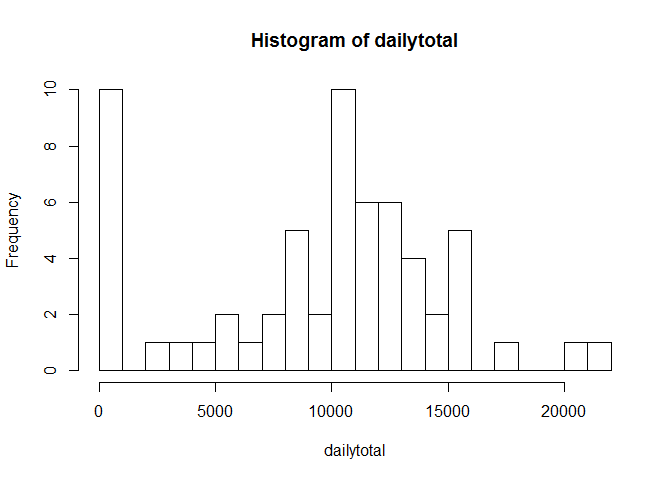
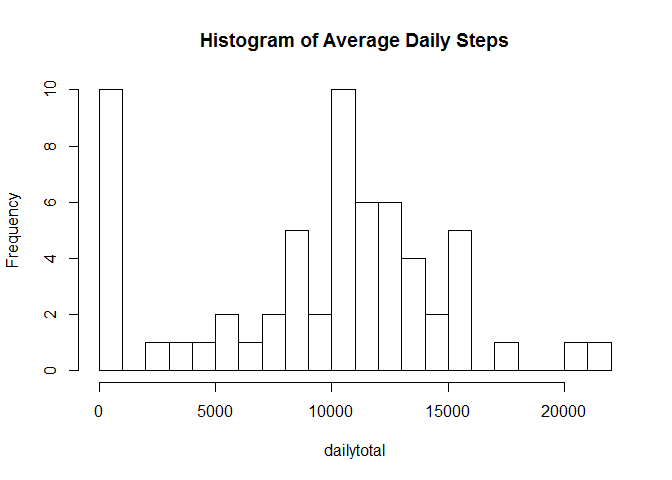
Final Commit

Changed region(s): [[0.2812, 0.0625, 0.75, 0.125]]

diff --git a/PA1_template.html b/PA1_template.html
@@ -116,7 +116,17 @@ $(document).ready(function () {
 <p>This project is being submitted by Sarah Lenceski, work starting June 4, 2017.</p>
 <p>The project requires the folowing:</p>
 <p>Commit a single R markdown file to a forked github account containing:</p>
-<p>1 Code for reading in the dataset and/or processing the data<br />2.Histogram of the total number of steps taken each day<br />3.Mean and median number of steps taken each day<br />4.Time series plot of the average number of steps taken<br />5.The 5-minute interval that, on average, contains the maximum number of steps<br />6.Code to describe and show a strategy for imputing missing data<br />7.Histogram of the total number of steps taken each dayafter missing values are imputed<br />8.Panel plot comparing the average number of steps taken per 5-minute interval across weekdays and weekends<br />9. All of the R code needed to reproduce the results (numbers, plots, etc.) in the report</p>
+<ol style="list-style-type: decimal">
+<li>Code for reading in the dataset and/or processing the data<br /></li>
+<li>Histogram of the total number of steps taken each day<br /></li>
+<li>Mean and median number of steps taken each day<br /></li>
+<li>Time series plot of the average number of steps taken<br /></li>
+<li>The 5-minute interval that, on average, contains the maximum number of steps<br /></li>
+<li>Code to describe and show a strategy for imputing missing data<br /></li>
+<li>Histogram of the total number of steps taken each dayafter missing values are imputed<br /></li>
+<li>Panel plot comparing the average number of steps taken per 5-minute interval across weekdays and weekends<br /></li>
+<li>All of the R code needed to reproduce the results (numbers, plots, etc.) in the report</li>
+</ol>
 <div id="loading-and-preprocessing-the-data" class="section level2">
 <h2>Loading and preprocessing the data</h2>
 <p><em>Start in the repo you have forked/cloned!</em></p>
@@ -131,12 +141,12 @@ mydata &lt;- cbind(mydata, time)</code></pre>
 </div>
 <div id="what-is-mean-total-number-of-steps-taken-per-day" class="section level2">
 <h2>What is mean total number of steps taken per day?</h2>
-<p><strong>note: for this part of the assignment, one can ignore missing value</strong></p>
+<p><strong>Note: For this part of the assignment, one can ignore missing values</strong></p>
 <p><em>Step 1: Calculate the total number of steps taken per day.</em></p>
 <pre class="r"><code>dailytotal &lt;- tapply(mydata$steps, mydata$date, sum, na.rm = TRUE)</code></pre>
 <p><em>Step 2: Make a histogram of the daily totals. I’m choosing to increase the number of bins shown</em></p>
-<pre class="r"><code>hist(dailytotal, breaks = 25)</code></pre>
[1 lines of base64/hex data omitted]
+<pre class="r"><code>hist(dailytotal, breaks = 25, main = &quot;Histogram of Average Daily Steps&quot;)</code></pre>
[1 lines of base64/hex data omitted]
 <p><em>Step 3: Calculate the mean and the median of the daily totals:</em></p>
 <pre class="r"><code>mean(dailytotal)</code></pre>
 <pre><code>## [1] 9354.23</code></pre>
@@ -149,9 +159,9 @@ mydata &lt;- cbind(mydata, time)</code></pre>
 <p>Start by creating vector of the average at each time with a tapply function</p>
 <pre class="r"><code>dayavg &lt;- tapply(mydata$steps, INDEX = as.factor(mydata$time), FUN = mean, na.rm = TRUE)</code></pre>
 <p>Then plot it</p>
-<pre class="r"><code>plot(dayavg, type =&quot;l&quot;, xlab = &quot;Time&quot;, xaxt = &quot;n&quot;, main = &quot;Average Steps Taken&quot;, ylab = &quot;Steps&quot;)
+<pre class="r"><code>plot(dayavg, type =&quot;l&quot;, xlab = &quot;Time&quot;, xaxt = &quot;n&quot;, main = &quot;Average Steps Taken Throughout Day&quot;, ylab = &quot;Steps&quot;)
 axis(1, at = seq(0, 287, by = 36), lab =names(dayavg[seq(1,288, by = 36)]))</code></pre>
[2 lines of base64/hex data omitted]
 <p><em>Part 2: Which 5 min interval on average contains the max number of steps?</em></p>
 <pre class="r"><code>which.max(dayavg)</code></pre>
 <pre><code>## 08:35 
@@ -164,21 +174,17 @@ axis(1, at = seq(0, 287, by = 36), lab =names(dayavg[seq(1,288, by = 36)]))</cod
 <pre class="r"><code>sum(is.na(mydata$steps))</code></pre>
 <pre><code>## [1] 2304</code></pre>
 <p>This is out of 17,568 observations. So the percentage of missing data, would be:</p>
-<pre class="r"><code>mean(is.na(mydata$steps))</code></pre>
-<pre><code>## [1] 0.1311475</code></pre>
+<pre class="r"><code>mean(is.na(mydata$steps)) *100</code></pre>
+<pre><code>## [1] 13.11475</code></pre>
 <p><em>Part 2:Devise a strategy for filling in the missing values</em></p>
-<p>steps: 1. create vector of positions of NA using which() and the is.na() functions</p>
+<p>Step 1: Create vector of positions of NA using which() and the is.na() functions</p>
 <pre class="r"><code>indexvector &lt;- which(is.na(mydata$steps))</code></pre>
-<ol start="2" style="list-style-type: decimal">
-<li>FInd times at each position</li>
-</ol>
+<p>Step 2: FInd times corresponding to each NA position</p>
 <pre class="r"><code>indextimes &lt;- mydata$time[which(is.na(mydata$steps))]</code></pre>
-<ol start="3" style="list-style-type: decimal">
-<li>find average time from dayavg</li>
-</ol>
+<p>Step 3. Find average time from dayavg</p>
 <pre class="r"><code>indextimeavg &lt;- dayavg[mydata$time[which(is.na(mydata$steps))]]</code></pre>
 <p>4.Use the replace() function</p>
-<p><em>Part 3: create a new data set with values replaced</em></p>
+<p><em>Part 3: Create a new data set with values replaced</em></p>
 <pre class="r"><code>steps_nafree &lt;- replace(mydata$steps,indexvector,indextimeavg)
 
 mydata_nafree &lt;- cbind(steps_nafree, mydata[,-1])</code></pre>

diff --git a/PA1_template.md b/PA1_template.md
@@ -8,14 +8,14 @@ The project requires the folowing:
 
 Commit a single R markdown file to a forked github account containing:
 
-1 Code for reading in the dataset and/or processing the data  
-2.Histogram of the total number of steps taken each day  
-3.Mean and median number of steps taken each day  
-4.Time series plot of the average number of steps taken  
-5.The 5-minute interval that, on average, contains the maximum number of steps  
-6.Code to describe and show a strategy for imputing missing data  
-7.Histogram of the total number of steps taken each dayafter missing values are imputed  
-8.Panel plot comparing the average number of steps taken per 5-minute interval across weekdays and weekends  
+1. Code for reading in the dataset and/or processing the data  
+2. Histogram of the total number of steps taken each day  
+3. Mean and median number of steps taken each day  
+4. Time series plot of the average number of steps taken  
+5. The 5-minute interval that, on average, contains the maximum number of steps  
+6. Code to describe and show a strategy for imputing missing data  
+7. Histogram of the total number of steps taken each dayafter missing values are imputed  
+8. Panel plot comparing the average number of steps taken per 5-minute interval across weekdays and weekends  
 9. All of the R code needed to reproduce the results (numbers, plots, etc.) in the report  
 
 ## Loading and preprocessing the data
@@ -36,7 +36,7 @@ mydata <- cbind(mydata, time)
 ```
 
 ## What is mean total number of steps taken per day?
-**note: for this part of the assignment, one can ignore missing value**
+**Note: For this part of the assignment, one can ignore missing values**
 
 *Step 1: Calculate the total number of steps taken per day.*
 
@@ -49,7 +49,7 @@ dailytotal <- tapply(mydata$steps, mydata$date, sum, na.rm = TRUE)
 
 
 ```r
-hist(dailytotal, breaks = 25)
+hist(dailytotal, breaks = 25, main = "Histogram of Average Daily Steps")
 ```
 
 ![](PA1_template_files/figure-html/unnamed-chunk-3-1.png)
@@ -86,7 +86,7 @@ Then plot it
 
 
 ```r
-plot(dayavg, type ="l", xlab = "Time", xaxt = "n", main = "Average Steps Taken", ylab = "Steps")
+plot(dayavg, type ="l", xlab = "Time", xaxt = "n", main = "Average Steps Taken Throughout Day", ylab = "Steps")
 axis(1, at = seq(0, 287, by = 36), lab =names(dayavg[seq(1,288, by = 36)]))
 ```
 
@@ -121,34 +121,33 @@ sum(is.na(mydata$steps))
 This is out of 17,568 observations. So the percentage of missing data, would be:
 
 ```r
-mean(is.na(mydata$steps))
+mean(is.na(mydata$steps)) *100
 ```
 
 ```
-## [1] 0.1311475
+## [1] 13.11475
 ```
 
 *Part 2:Devise a strategy for filling in the missing values*
 
-steps: 
-1. create vector of positions of NA using which() and the is.na() functions
+Step 1: Create vector of positions of NA using which() and the is.na() functions
 
 ```r
 indexvector <- which(is.na(mydata$steps))
 ```
-2. FInd times at each position
+Step 2: FInd times corresponding to each NA position
 
 ```r
 indextimes <- mydata$time[which(is.na(mydata$steps))]
 ```
-3. find average time from dayavg
+Step 3. Find average time from dayavg
 
 ```r
 indextimeavg <- dayavg[mydata$time[which(is.na(mydata$steps))]]
 ```
 4.Use the replace() function 
 
-*Part 3: create a new data set with values replaced*
+*Part 3: Create a new data set with values replaced*
 
 ```r
 steps_nafree <- replace(mydata$steps,indexvector,indextimeavg)
